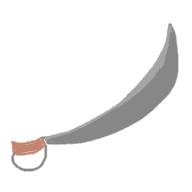
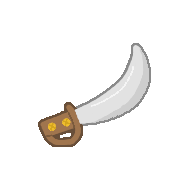
cooler cutlass

Changed region(s): [[0.0312, 0.125, 0.9375, 0.9062]]

diff --git a/src/main/java/oceanwielder/wieldables/weapons/Cutlass.java b/src/main/java/oceanwielder/wieldables/weapons/Cutlass.java
@@ -1,8 +1,15 @@
 package oceanwielder.wieldables.weapons;
 
+import com.badlogic.gdx.Gdx;
+import com.badlogic.gdx.graphics.Color;
+import com.badlogic.gdx.graphics.g2d.SpriteBatch;
+import com.badlogic.gdx.math.MathUtils;
 import com.megacrit.cardcrawl.actions.AbstractGameAction;
 import com.megacrit.cardcrawl.actions.common.DamageAction;
 import com.megacrit.cardcrawl.cards.DamageInfo;
+import com.megacrit.cardcrawl.core.Settings;
+import com.megacrit.cardcrawl.monsters.AbstractMonster;
+import com.megacrit.cardcrawl.vfx.AbstractGameEffect;
 
 import static oceanwielder.WielderMod.makeID;
 import static oceanwielder.util.Wiz.*;
@@ -14,9 +21,81 @@ public class Cutlass extends AbstractWeapon {
         super(ID, 6, -1, 8);
     }
 
+    public void use(AbstractMonster m) {
+        dmg(m, AbstractGameAction.AttackEffect.SLASH_DIAGONAL);
+        vfxTop(new SwingSwordEffect(this));
+    }
+
     public void dequipEffect() {
         target = getRandomTarget();
-        if (target != null)
+        if (target != null) {
             att(new DamageAction(target, new DamageInfo(adp(), dequipPower, DamageInfo.DamageType.THORNS), AbstractGameAction.AttackEffect.SLASH_DIAGONAL, true));
+            shouldPopOut = false;
+            vfxTop(new ChuckSwordEffect(this, target.hb.cX, target.hb.cY), 0.2f);
+        }
+    }
+
+    private static class SwingSwordEffect extends AbstractGameEffect {
+        private static final float DURATION = 0.4f;
+        private static final float ROTATE = -60f;
+
+        private AbstractWeapon weapon;
+
+        public SwingSwordEffect(AbstractWeapon weapon) {
+            this.weapon = weapon;
+        }
+
+        public void update() {
+            duration += Gdx.graphics.getDeltaTime();
+            float progress = duration / DURATION;
+            if (progress >= 1f) {
+                isDone = true;
+                //weapon.angleOffset = 0f;
+            } else
+                weapon.angle += (float)Math.sin(Math.PI * progress) * ROTATE;
+        }
+
+        public void render(SpriteBatch sb) {}
+        public void dispose() {}
+    }
+
+    private static class ChuckSwordEffect extends AbstractGameEffect {
+        private static final float MOVE_SPEED = 1200f * Settings.scale;
+        private static final float SPIN_SPEED = -450f;
+
+        private AbstractWeapon weapon;
+        private float x, y, tX, tY, dX, dY;
+
+        public ChuckSwordEffect(AbstractWeapon weapon, float tX, float tY) {
+            this.weapon = weapon;
+            this.tX = tX;
+            this.tY = tY;
+        }
+
+        public void update() {
+            if (duration == 0f) {
+                rotation = weapon.angle;
+                x = weapon.hb.cX;
+                y = weapon.hb.cY;
+                float angle = (float)Math.atan2(tY-y, tX-x);
+                dX = (float)Math.cos(angle) * MOVE_SPEED;
+                dY = (float)Math.sin(angle) * MOVE_SPEED;
+                weapon.animScale = 0f;
+                weapon.vfxTimer = MathUtils.random(0f, 5f);
+            }
+            duration += Gdx.graphics.getDeltaTime();
+            x += dX * Gdx.graphics.getDeltaTime();
+            y += dY * Gdx.graphics.getDeltaTime();
+            rotation += SPIN_SPEED * Gdx.graphics.getDeltaTime();
+            if (x - 200f > Settings.WIDTH || x + 200f < 0f || y - 200f > Settings.HEIGHT || y + 200f < 0f)
+                isDone = true;
+        }
+
+        public void render(SpriteBatch sb) {
+            sb.setColor(Color.WHITE);
+            sb.draw(weapon.texture, x - CENTRE, y - CENTRE, CENTRE, CENTRE, SIZE, SIZE, scale, scale, rotation);
+        }
+
+        public void dispose() {}
     }
 }

diff --git a/src/main/java/oceanwielder/wieldables/weapons/AbstractWeapon.java b/src/main/java/oceanwielder/wieldables/weapons/AbstractWeapon.java
@@ -57,7 +57,8 @@ public abstract class AbstractWeapon extends AbstractWieldable {
 
     protected void dmg(AbstractMonster mo, AbstractGameAction.AttackEffect fx) {
         calculateDamage(mo);
-        att(new DamageAction(mo, new DamageInfo(adp(), primary, DamageInfo.DamageType.NORMAL), fx, true));
+        for (int i = 0; i < primaryTimes; i++)
+            att(new DamageAction(mo, new DamageInfo(adp(), primary, DamageInfo.DamageType.NORMAL), fx, true));
     }
 
     protected void dmg(AbstractMonster mo) {
@@ -75,6 +76,6 @@ public abstract class AbstractWeapon extends AbstractWieldable {
     @Override
     public void updateAnimation() {
         super.updateAnimation();
-        angle = (float)Math.sin(vfxTimer * Math.PI / TWIST_TIME) * TWIST_ANGLE;
+        angle = (float)Math.sin(vfxTimer * Math.PI / TWIST_TIME) * TWIST_ANGLE + angleOffset;
     }
 }

diff --git a/src/main/java/oceanwielder/wieldables/weapons/ThrowingStar.java b/src/main/java/oceanwielder/wieldables/weapons/ThrowingStar.java
@@ -20,7 +20,6 @@ public class ThrowingStar extends AbstractWeapon {
 
     public ThrowingStar() {
         super(ID, 7, -1, 2);
-        shouldPopOut = false;
     }
 
     public void use(AbstractMonster m) {
@@ -31,6 +30,7 @@ public class ThrowingStar extends AbstractWeapon {
     public void dequipEffect() {
         forAllMonstersLivingBackwards(mo -> applyToEnemyTop(mo, new VulnerablePower(mo, dequipPower, false)));
         vfxTop(new ThrowThrowingStarEffect(this, Settings.WIDTH + hb.width, hb.cY, 0.5f));
+        shouldPopOut = false;
     }
 
     @Override
@@ -75,6 +75,7 @@ public class ThrowingStar extends AbstractWeapon {
         }
 
         public void render(SpriteBatch sb) {
+            sb.setColor(color);
             sb.draw(star.texture, x - CENTRE, y - CENTRE, CENTRE, CENTRE, SIZE, SIZE, scale, scale, rotation);
         }
 

diff --git a/src/main/java/oceanwielder/wieldables/AbstractWieldable.java b/src/main/java/oceanwielder/wieldables/AbstractWieldable.java
@@ -35,7 +35,7 @@ public abstract class AbstractWieldable {
     private static final float yAcceleration = -1000f;
     public static final float DEFAULT_FONT_SCALE = 0.7f;
     public static final int DEQUIP_USE_TIMES = 2;
-    protected TextureRegion texture;
+    public TextureRegion texture;
     public String id;
     public String name;
     public String description;
@@ -43,7 +43,7 @@ public abstract class AbstractWieldable {
     public float cY = 0.0f;
     public float fontScale = 0.01f;
     public Hitbox hb;
-    public float angle;
+    public float angle, angleOffset;
     public float animX, animY, previewOffsetY;
     public float targetAlpha = 1f;
     public float animScale = 1f;

diff --git a/src/main/java/oceanwielder/wieldables/shields/AbstractShield.java b/src/main/java/oceanwielder/wieldables/shields/AbstractShield.java
@@ -43,7 +43,8 @@ public abstract class AbstractShield extends AbstractWieldable {
 
     protected void blck() {
         applyPowers();
-        att(new GainBlockAction(adp(), primary, true));
+        for (int i = 0; i < primaryTimes; i++)
+            att(new GainBlockAction(adp(), primary, true));
     }
 
     @Override
